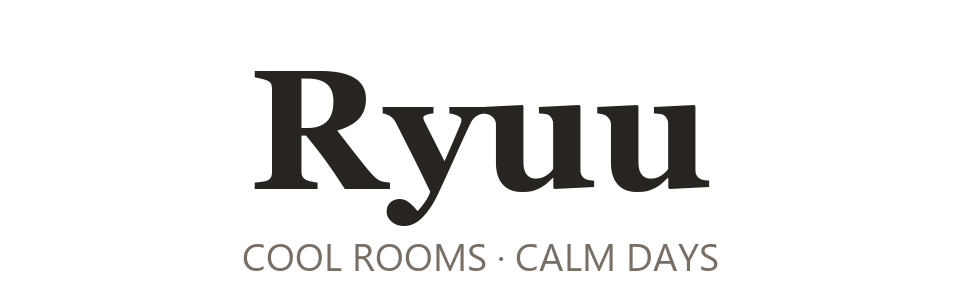
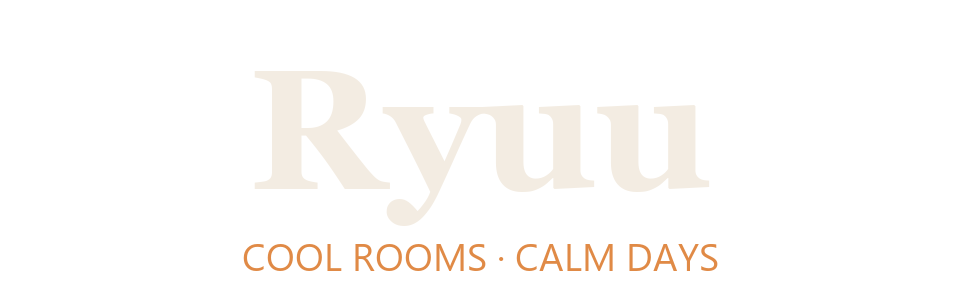
Serve placeholders for the owner's images on every page; add Vercel region
The static Version 2 homepage asked for the owner's logo and building render directly, so they showed as broken images on the demo. Without NEXT_PUBLIC_OWNER_BRANDING=true, next.config.ts now rewrites those addresses to neutral placeholders. The footer wordmark is now light, for the dark footer. vercel.json runs functions in Singapore, next to the Neon database.

Changed region(s): [[0.25, 0.21, 0.75, 0.75], [0.25, 0.81, 0.75, 0.9]]

diff --git a/next.config.ts b/next.config.ts
@@ -10,7 +10,17 @@ const config: NextConfig = {
   outputFileTracingExcludes: { '*': ['./.data/**', './.env*', './backups/**', './.npm-cache/**', './.git/**'] },
   // Version 2: the homepage is the static Onda-based page in public/site/. /classic redirects here.
   async rewrites() {
-    return { beforeFiles: [{ source: '/', destination: '/site/index.html' }], afterFiles: [], fallback: [] };
+    // The hostel owner's logo and building render are not in the public repository. Without them
+    // (NEXT_PUBLIC_OWNER_BRANDING not 'true', e.g. the public demo), their addresses serve neutral placeholders,
+    // which also covers the static homepage in public/site/.
+    const placeholders = process.env.NEXT_PUBLIC_OWNER_BRANDING === 'true' ? [] : [
+      { source: '/images/ryuu-house-logo.png', destination: '/images/placeholder/house-logo.png' },
+      { source: '/images/ryuu-logo.webp', destination: '/images/placeholder/wordmark.png' },
+      { source: '/images/ryuu-logo.png', destination: '/images/placeholder/wordmark.png' },
+      { source: '/images/ryuu-exterior.webp', destination: '/images/photos/inside-balcony.webp' },
+      { source: '/images/ryuu-exterior.png', destination: '/images/photos/inside-balcony.webp' },
+    ];
+    return { beforeFiles: [{ source: '/', destination: '/site/index.html' }, ...placeholders], afterFiles: [], fallback: [] };
   },
   async headers() {
     return [{source:'/sw.js',headers:[{key:'Cache-Control',value:'no-store, max-age=0'},{key:'Service-Worker-Allowed',value:'/'}]}, { source: '/:path*', headers: [
